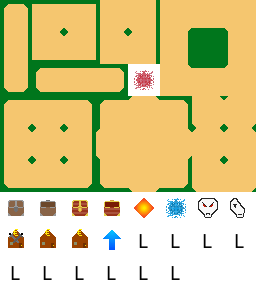
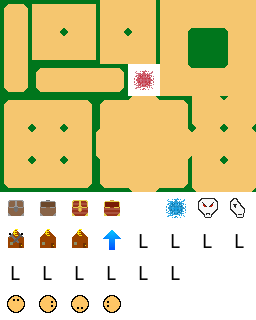
Added an action key, z. Working on dialog/fights

diff --git a/game.go b/game.go
@@ -7,25 +7,62 @@ import (
 	"github.com/hajimehoshi/ebiten/v2/inpututil"
 )
 
+type Screen int8
+
+const (
+	S_Tile Screen = iota
+	S_Lore
+)
+
 type Game struct {
 	Map Map
+	Direction Direction
+	Screen Screen
+	NPC NPCProg
+}
+
+type NPCProg struct {
+	Text []string
+	TickSinceStart int
 }
 
 func (g *Game) Update() error {
 	var err *APIError
 
-	dirs := map[Direction]bool{}
-
-	dirs[DirUp] = keyHeld(ebiten.KeyArrowUp)
-	dirs[DirRight] = keyHeld(ebiten.KeyArrowRight)
-	dirs[DirDown] = keyHeld(ebiten.KeyArrowDown)
-	dirs[DirLeft] = keyHeld(ebiten.KeyArrowLeft)
-
-	err = g.ArrowKey(dirs)
-
-	if err != nil {
-		fmt.Println(err)
+	if keyHeld(ebiten.KeyR) {
+		m := Init()
+		g.Map = m
+		g.Screen = S_Tile
+		return nil
 	}
+
+	switch g.Screen {
+	case S_Tile:
+		dirs := map[Direction]bool{}
+
+		if keyHeld(ebiten.KeyZ) {
+			err = g.ZKey()
+		}
+	
+		dirs[DirUp] = keyHeld(ebiten.KeyArrowUp)
+		dirs[DirRight] = keyHeld(ebiten.KeyArrowRight)
+		dirs[DirDown] = keyHeld(ebiten.KeyArrowDown)
+		dirs[DirLeft] = keyHeld(ebiten.KeyArrowLeft)
+	
+		err = g.ArrowKey(dirs)
+	
+		if err != nil {
+			fmt.Println(err)
+		}
+	
+		if g.Screen == S_Lore {
+			g.NPC.TickSinceStart++
+		}
+	case S_Lore:
+		
+	}
+
+
 
 	return nil
 }
@@ -33,4 +70,9 @@ func (g *Game) Update() error {
 func keyHeld(key ebiten.Key) bool {
 	d := inpututil.KeyPressDuration(key)
 	return d != 0 && d%5 == 0
+}
+
+func (g *Game) SetScreen(newScreen Screen) {
+	g.Screen = newScreen
+	fmt.Println("New screen!")
 }

diff --git a/interpreter.go b/interpreter.go
@@ -25,20 +25,51 @@ func (g *Game) ArrowKey(dirs map[Direction]bool) *APIError {
 			continue
 		}
 
+		g.Direction = dir
+
 		switch g.Map.Layout[newY][newX] {
 		case MapArena, MapEmptySpace:
 			err = g.Map.Move(dir, 1)
-		case MapExit:
-			err = g.Map.Action(dir)
-		case MapChest:
-			// TODO:
 		default:
 			continue
 		}
-
+	
 		if err != nil {
 			return err
 		}
+
+	}
+
+	return nil
+}
+
+func (g *Game) ZKey() *APIError {
+	var err *APIError
+
+	switch g.Screen {
+	case S_Tile:
+		c := Coords{g.Map.User[0] + DirectionEnum[g.Direction][0], g.Map.User[1] + DirectionEnum[g.Direction][1]}
+		tile := g.Map.Layout[c[0]][c[1]]
+
+		switch tile {
+			case MapExit:
+				err = g.Map.Action(g.Direction)
+			case MapChest:
+				// TODO:
+			case MapNPC:
+				if g.Map.NPC[c.String()] >= NPCLore0 {
+					g.SetScreen(S_Lore)
+					g.NPC = NPCProg{
+						Text: []string{"Hello there! I am very angry. I hate you in fact.", 
+										"AHAHAHAHAHHAHAHAHAHAHAHA PRANKED",
+						},
+					}
+				}
+		}
+	}
+
+	if err != nil {
+		return err
 	}
 
 	return nil

diff --git a/resources.go b/resources.go
@@ -78,7 +78,6 @@ var TileMap = map[string][2]int{
 	"chest_open":      {6, 1},
 	"chest_rare":      {6, 2},
 	"chest_rare_open": {6, 3},
-	"user":            {6, 4},
 	"exit":            {6, 5},
 	"monster":           {6, 6},
 	"monster_done":      {6, 7},
@@ -98,6 +97,11 @@ var TileMap = map[string][2]int{
 	"npc_lore_7":   {8, 3},
 	"npc_lore_8":   {8, 4},
 	"npc_lore_9":   {8, 5},
+
+	"user_0": 		{9,0},
+	"user_1": 		{9,1},
+	"user_2": 		{9,2},
+	"user_3": 		{9,3},
 }
 
 func BoolString(b bool) string {
@@ -209,7 +213,7 @@ func (g *Game) Draw(screen *ebiten.Image) {
 		}
 	}
 
-	DrawTile(screen, "user", g.Map.User[1], g.Map.User[0])
+	DrawTile(screen, "user_" + fmt.Sprint(g.Direction), g.Map.User[1], g.Map.User[0])
 	DrawTile(screen, "exit", g.Map.Exit[1], g.Map.Exit[0])
 
 	for str, info := range g.Map.ChestsInfo {

diff --git a/resourceManager.go b/resourceManager.go
@@ -54,7 +54,7 @@ func FetchResourcesPack(setName string, level int) ResourcePack {
 	pack := ResourcePack{}
 
 	sprites, sizeSprites := manifest.Sprites.FetchImg(setName, level)
-	tiles, sizeTiles := manifest.Sprites.FetchImg(setName, level)
+	tiles, sizeTiles := manifest.Tiles.FetchImg(setName, level)
 
 	pack.Sprites = sprites
 	pack.Tiles = tiles

diff --git a/main.go b/main.go
@@ -16,8 +16,8 @@ func main() {
 
 	LoadResourcePack()
 
-	ebiten.SetWindowSize(DIMENSIONS*CurrentResourcePack.TileSize, DIMENSIONS*CurrentResourcePack.TileSize)
-	ebiten.SetWindowTitle("Poggers Game")
+	ebiten.SetWindowSize(832, 832)
+	ebiten.SetWindowTitle("Example Client")
 
 	if err := ebiten.RunGame(&game); err != nil {
 		panic(err)
